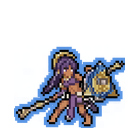
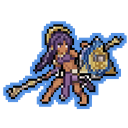
Switch sprite rendering to center-align and drop footprint shadow
Update knight PNGs, center the figure in its sprite box (was bottom-anchored),
remove the CSS ::after footprint ellipse, and sync inline comments + README to
match the new background-position: center approach.

diff --git a/public/replay.css b/public/replay.css
@@ -163,7 +163,7 @@ body {
   display: flex;
   flex-direction: column;
   align-items: center;
-  justify-content: flex-end;
+  justify-content: center;
   transition: transform 0.4s ease-out, opacity 0.4s;
   cursor: pointer;
   z-index: 10;
@@ -187,32 +187,17 @@ body {
   width: 76px;
   height: 76px;
   display: flex;
-  align-items: flex-end;
+  align-items: center;
   justify-content: center;
   transition: box-shadow 0.2s, filter 0.2s;
   position: relative;
 }
 
-/* Team-colored footprint under the figure (like the reference figurine bases). */
-.sprite::after {
-  content: "";
-  position: absolute;
-  bottom: 2px;
-  left: 50%;
-  transform: translateX(-50%);
-  width: 44px;
-  height: 11px;
-  border-radius: 50%;
-  z-index: -1;
-}
-.sprite.side-a::after { background: radial-gradient(rgba(106,159,213,0.65), rgba(106,159,213,0.05)); }
-.sprite.side-b::after { background: radial-gradient(rgba(213,106,106,0.65), rgba(213,106,106,0.05)); }
-
 .sprite-fig {
   width: 100%;
   height: 100%;
   background-repeat: no-repeat;
-  background-position: center bottom;
+  background-position: center;
   background-size: contain;
   image-rendering: pixelated;
   image-rendering: crisp-edges;

diff --git a/public/assets/sprites.js b/public/assets/sprites.js
@@ -209,12 +209,12 @@
   // makes the two sides face each other.
   //
   // Canvas standard for raster unit art: 128×128 px (square, matching the
-  // square board cells), transparent background, figure bottom-centered.
+  // square board cells), transparent background, figure centered on body axis.
   // See public/assets/units/README.md.
   const IMG = {
     knight: {
-      A: "/assets/units/knight_a.png?v=5",
-      B: "/assets/units/knight_b.png?v=5",
+      A: "/assets/units/knight_a.png?v=6",
+      B: "/assets/units/knight_b.png?v=6",
     },
   };
 

diff --git a/public/assets/units/README.md b/public/assets/units/README.md
@@ -11,7 +11,7 @@ fallback sprites in `public/assets/sprites.js` (the `IMG` map).
 | Background    | Fully transparent (no checkerboard / matte)              |
 | Placement     | **Centered on the character's body axis** (head/torso), bottom-anchored |
 | Style         | Pixel art; rendered with `image-rendering: pixelated`    |
-| Fit at render | `background-size: contain`, `background-position: center bottom` |
+| Fit at render | `background-size: contain`, `background-position: center` |
 
 The fixed square canvas keeps every unit at a consistent visual scale. Center
 the figure on the **character's body**, not its bounding box: held weapons,
